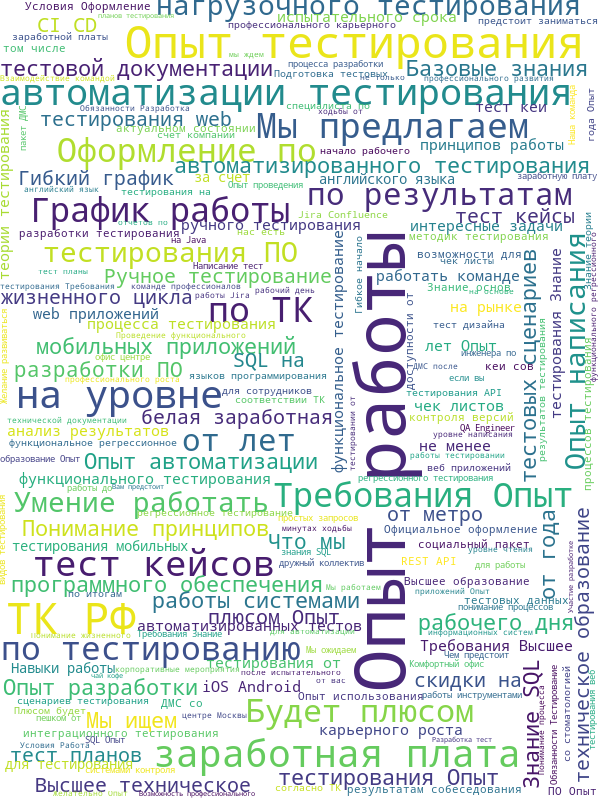
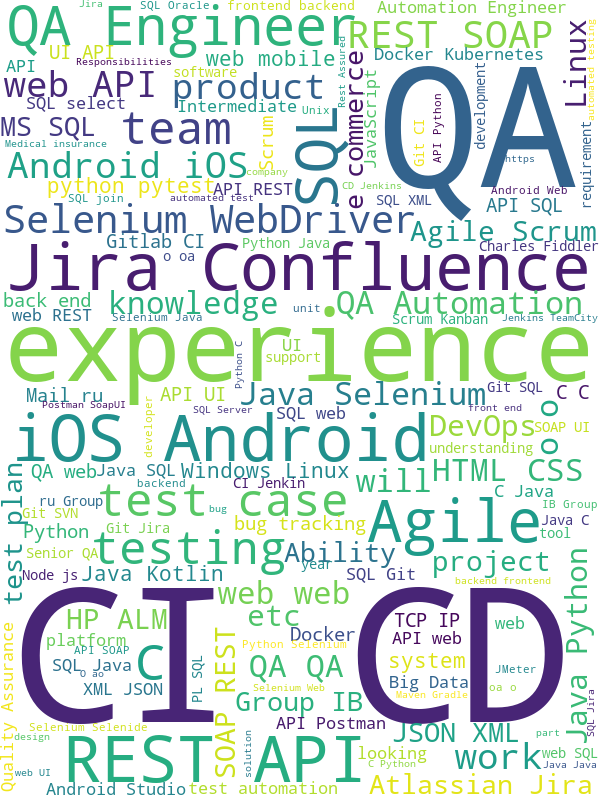
remove cyrillic symbols from text for 'word cloud' and generate new picture.

diff --git a/word_cloud.py b/word_cloud.py
@@ -26,32 +26,8 @@ for i in vac:
     json_dump = json_dump.replace('й', 'й')
     json_dump = json_dump.replace('Й', 'Й')
     json_dump = json_dump.replace('&quot;', '')
-    stop_list = [
-        'Опыт', 'опыт', "от года", "от одного года", 'тестирования', 'тестовой', 'тест планов', 'тест-планов',
-        'тестовой документации', 'тест кейсы', "тест-кейсы", 'тест кейсов', "тест-кейсов",
-        "тест-кейсы", 'чек листов', 'чек-листов', 'чек листы', 'чек-листы', 'тестовых сценариев',
-        'тестирования ПО', "тестирование программного обеспечения", "по тестированию",
-        'Мы ищем', 'мы ищем', "Мы ждем", "Мы ожидаем", "Чем предстоит", "Вам предстоит", "Вы будете",
-        "Что нужно", 'Будет плюсом', 'будет плюсом', "плюсом будет",
-        "Требования", "Базовые знания", "базовые знания", "Знания", "Знание", "принципов работы",
-        "Навыки работы", "Умение работать", "умение работать",
-        'Мы предлагаем', "Мы предлагаем:", "Что мы", "для сотрудников", "скидки от", "скидки на",
-        "ДМС после", "счет компании", "со стоматологией", "доступности от", "чай", "кофе",
-        "возможности для", "возможности для профессионального роста", "интересные задачи",
-        "есть возможность",
-        "Комфортный офис", "комфортный офис", "уютный офис", "современный офис", "от метро",
-        "центре Москвы",
-        "гибкое начало рабочего дня", 'График работы', 'график работы', "гибкий график",
-        'Оформление по ТК РФ', "Официальное оформление", 'по ТК', "ТК РФ",
-        'по результатам', 'на уровне', "заработная плата", "по итогам", "с первого дня",
-        "испытательного срока",
-        "для нас", "от вас", "если вы", "если ты", "для этого", "мы не", "том числе", "один из",
-        "одного из", "не менее", "не только", "на базе", "на основе"
-    ]
-    for word in stop_list:
-        json_dump = json_dump.replace(word, '')
-    print(json_dump)
-    f.write(json_dump)
+    result = re.sub(u'[^\x00-\x7F\x80-\xFF\u0100-\u017F\u0180-\u024F\u1E00-\u1EFF]', u'', json_dump)
+    f.write(result)
 f.close()
 
 f = open("word_cloud.txt", "r", encoding="utf-8")
@@ -60,7 +36,7 @@ text = f.read()
 
 # Create the wordcloud object
 wordcloud = WordCloud(background_color="white",
-                      max_words=300,
+                      max_words=150,
                       # mask=mask,
                       # contour_width=3, contour_color='steelblue',
                       width=600, height=800, margin=0
